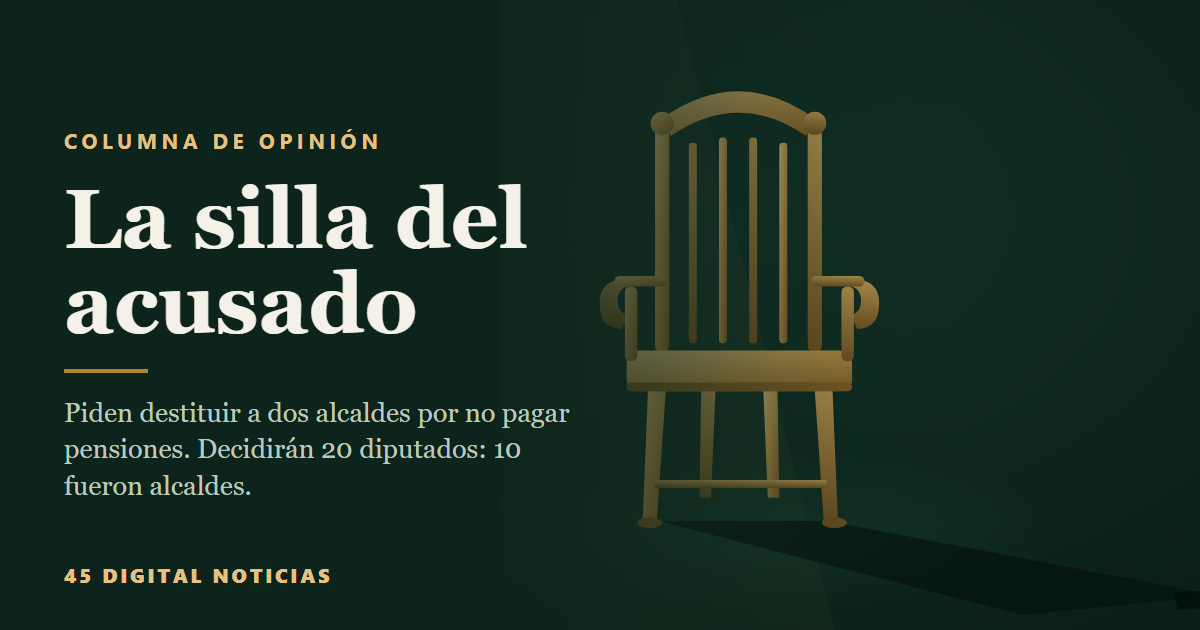
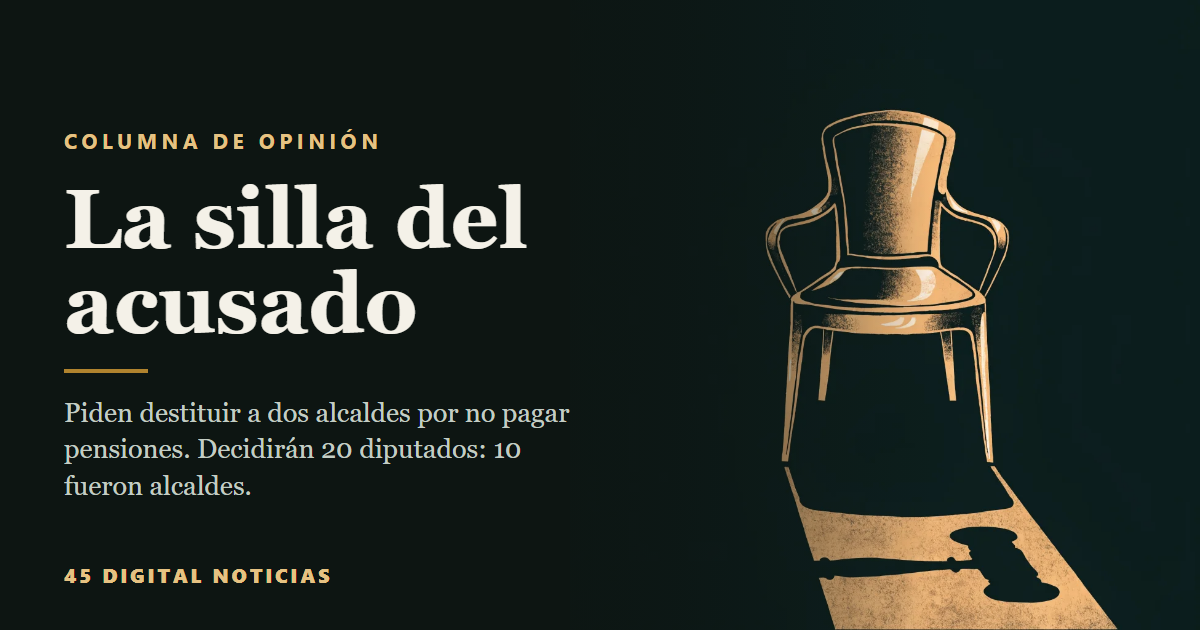
La silla del acusado: portada definitiva del usuario (webp) en artículo, tarjetas y OG; retirado el SVG provisional

Changed region(s): [[0.4933, 0.1206, 0.9558, 1.0]]

diff --git a/index.html b/index.html
@@ -187,7 +187,7 @@
       <!-- PLANTILLA · por cada columna: data-date (ISO, fecha de publicación) + imagen + href + categoría + título + gancho.
            El script ordena por data-date (más reciente primero) y muestra solo las CAP más nuevas. -->
       <a class="card reveal" data-date="2026-06-12" href="la-silla-del-acusado.html">
-        <div class="card-img"><img src="silla-del-acusado.svg" alt=""></div>
+        <div class="card-img"><img src="silla-del-acusado.webp" alt=""></div>
         <div class="card-body">
           <span class="date">Morelos · Congreso</span>
           <h3>La silla del acusado</h3>
@@ -602,7 +602,7 @@
   // portada rotativa: elige una destacada al azar en cada carga
   (function () {
     const featured = [
-      { t: "La silla del acusado", d: "Dos alcaldes rurales enfrentan la destitución por no pagar pensiones. Los juzgará un Congreso donde la mitad fue alcalde: la rendición de cuentas como interruptor.", h: "la-silla-del-acusado.html", m: "5 min de lectura", g: "silla-del-acusado.svg" },
+      { t: "La silla del acusado", d: "Dos alcaldes rurales enfrentan la destitución por no pagar pensiones. Los juzgará un Congreso donde la mitad fue alcalde: la rendición de cuentas como interruptor.", h: "la-silla-del-acusado.html", m: "5 min de lectura", g: "silla-del-acusado.webp" },
       { t: "La cifra-trofeo", d: "Los homicidios sí bajan, pero no 49 por ciento: el truco está en la ventana y en quién cuenta. Tres varas para un mismo país.", h: "la-cifra-trofeo.html", m: "4 min de lectura", g: "cifra-trofeo.webp" },
       { t: "La paz que no cuenta", d: "Mientras el homicidio baja, 2025 rompió el récord histórico de desaparecidos. La violencia no se acabó: cambió de registro.", h: "la-paz-que-no-cuenta.html", m: "4 min de lectura", g: "paz-que-no-cuenta.png" },
       { t: "Morelos, subcampeón nacional", d: "Primer lugar nacional en extorsión, segundo en homicidio y feminicidio. Cuando todo el país baja y tú no, el problema no es la marea.", h: "morelos-subcampeon-nacional.html", m: "4 min de lectura", g: "morelos-subcampeon.svg" },

diff --git a/todas.html b/todas.html
@@ -144,7 +144,7 @@
         </div>
       </a>
       <a class="card" data-cat="morelos" data-title="la silla del acusado morelos congreso tja destitución alcaldes tlaquiltenango xoxocotla pensiones laudos desacato odonnell accountability ex alcaldes diputados" href="la-silla-del-acusado.html">
-        <div class="card-img"><img src="silla-del-acusado.svg" alt=""></div>
+        <div class="card-img"><img src="silla-del-acusado.webp" alt=""></div>
         <div class="card-body">
           <span class="date">Morelos · Congreso</span>
           <h3>La silla del acusado</h3>

diff --git a/la-silla-del-acusado.html b/la-silla-del-acusado.html
@@ -65,7 +65,7 @@
     </header>
 
     <figure class="article-figure">
-      <img src="silla-del-acusado.svg" alt="Una silla curul de latón sobre fondo verde botella; su sombra se alarga hasta tomar la forma de un mazo de juez.">
+      <img src="silla-del-acusado.webp" alt="Una silla curul de latón sobre fondo verde botella; su sombra se alarga hasta tomar la forma de un mazo de juez.">
     </figure>
 
     <div class="share" aria-label="Compartir">
